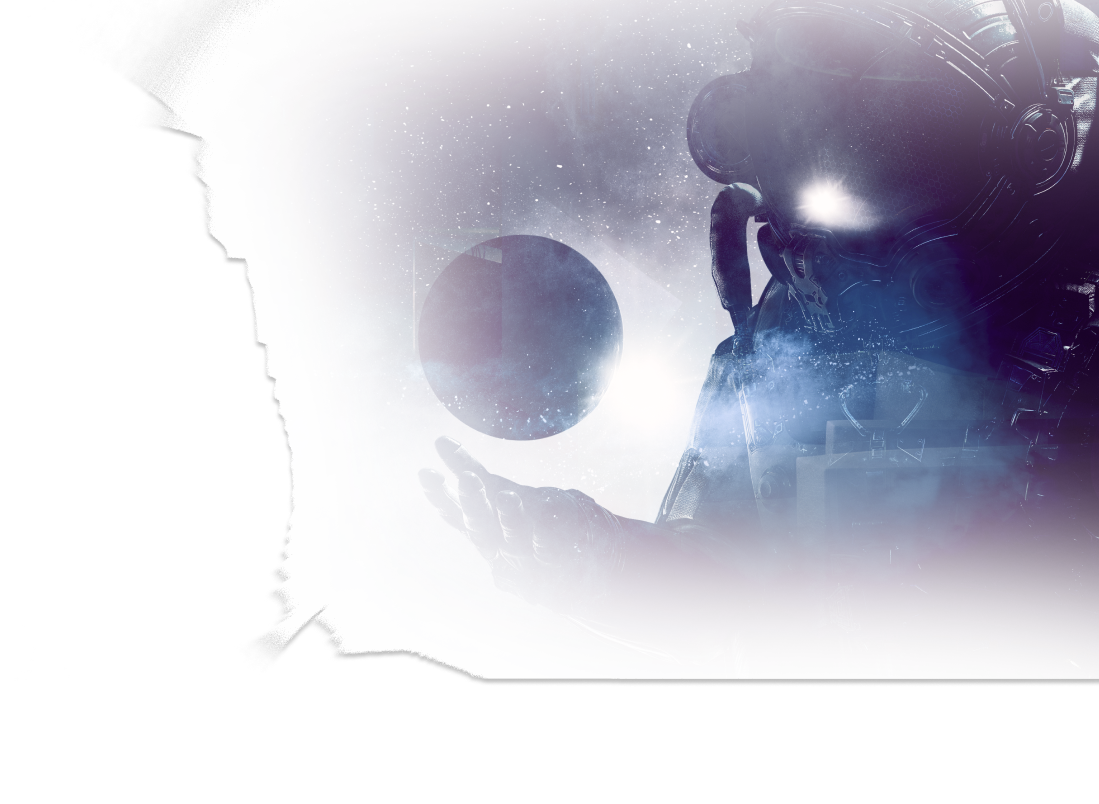
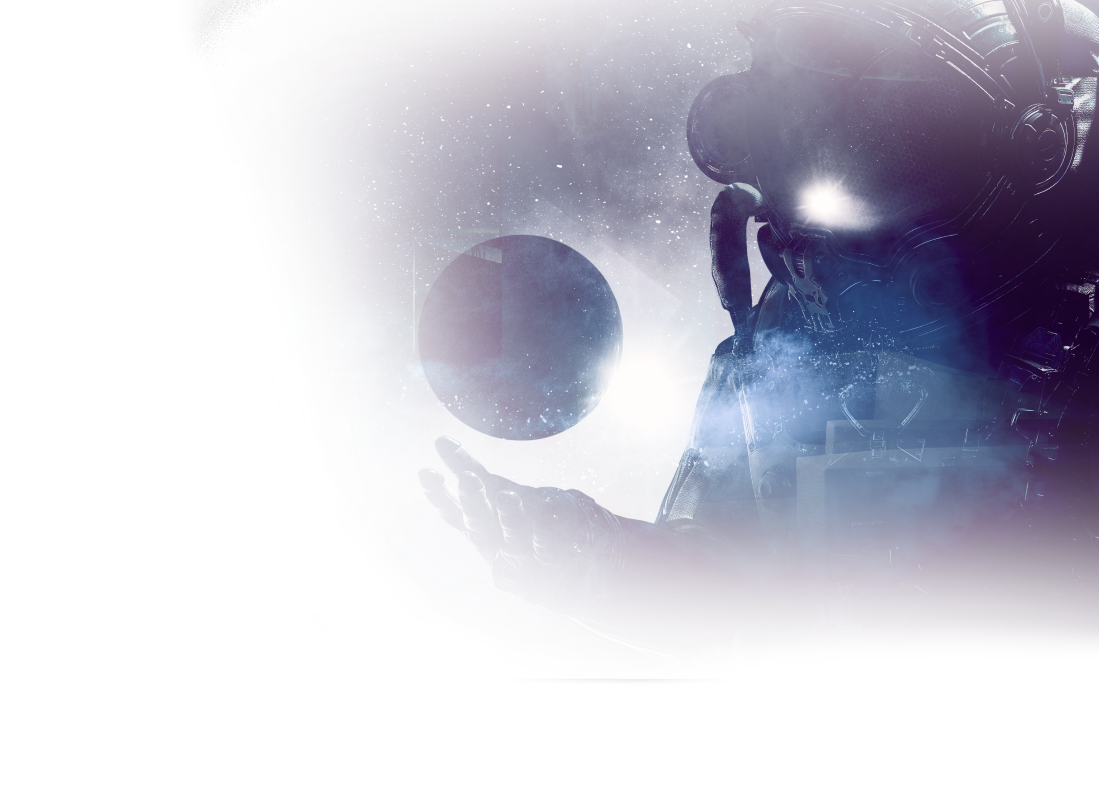
feat: alterando background imagens

diff --git a/assets/style.css b/assets/style.css
@@ -205,7 +205,7 @@ header {
 
 
 .main-space {
-    background-image: url("./img/starfield-deep-space-many-light-years-far-from-earth\ 2.png");
+    background-image: url("./img/starfield-deep-space-many-light-years-far-from-earth_2.png");
     background-repeat: no-repeat;
     background-size: 100%;
 }
